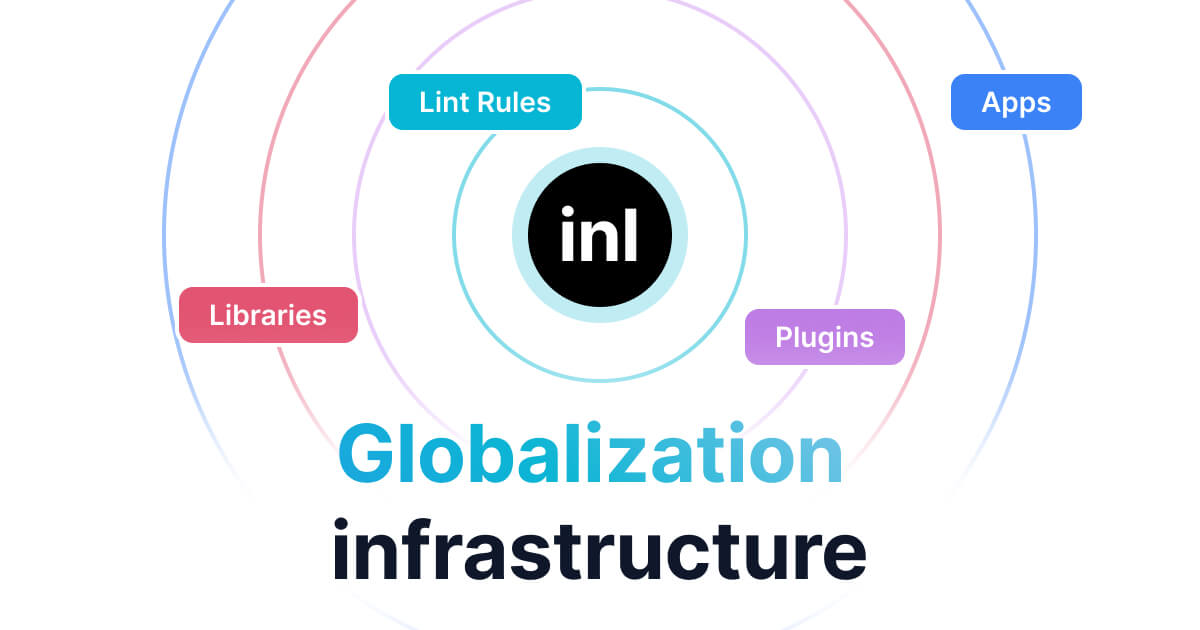
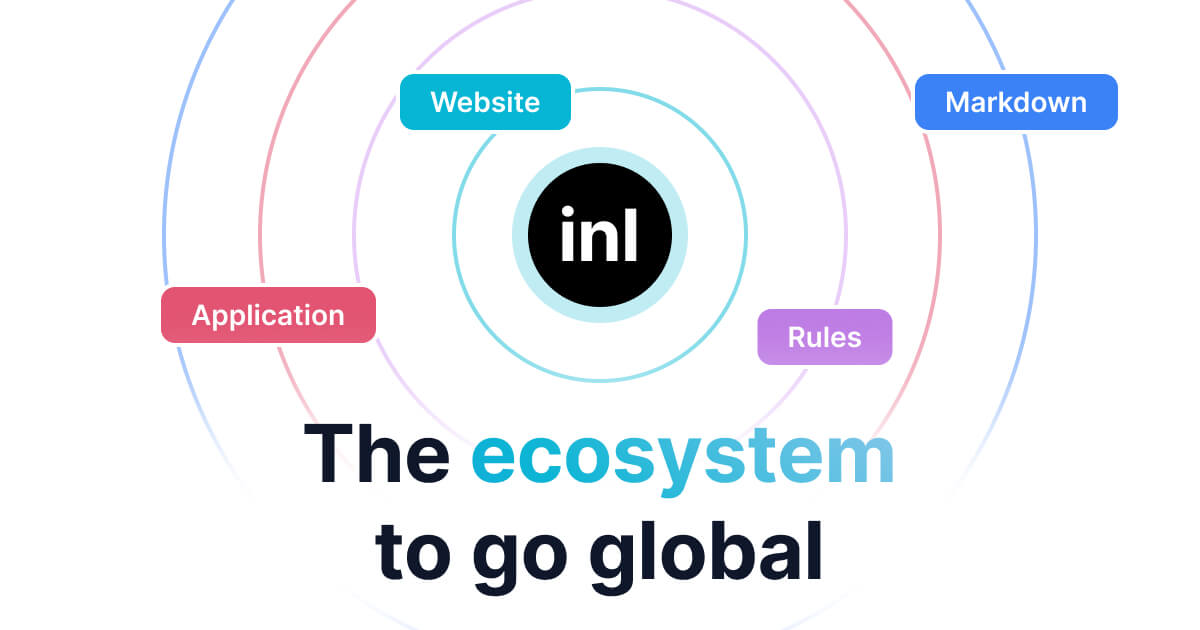
chore: SEO adjustments and paraglide to top

diff --git a/inlang/source-code/website/src/pages/index/index.page.tsx b/inlang/source-code/website/src/pages/index/index.page.tsx
@@ -12,12 +12,12 @@ export function Page() {
 
 	return (
 		<>
-			<Title>inlang Marketplace</Title>
+			<Title>inlang Marketplace - The ecosystem to go global</Title>
 			<Meta
 				name="description"
-				content="Find apps, plugins and lint rules for inlang's ecosystem."
+				content="Quickly find the best solution to globalize (i18n) your app. inlang helps you to expand to new markets and acquire new customers."
 			/>
-			<Meta name="og:image" content="/images/inlang-marketplace-image.jpg" />
+			<Meta name="og:image" content="/images/inlang-social-image.jpg" />
 			<MarketplaceLayout>
 				<Show
 					when={search}

diff --git a/inlang/source-code/website/src/pages/index/custom_section/Hero.tsx b/inlang/source-code/website/src/pages/index/custom_section/Hero.tsx
@@ -6,11 +6,11 @@ import { Button } from "../components/Button.jsx"
 import Link from "#src/renderer/Link.jsx"
 
 const featuredArray = [
+	"library.inlang.paraglideJs",
 	"app.inlang.editor",
 	"app.inlang.cli",
 	"app.inlang.ideExtension",
 	"plugin.inlang.i18next",
-	"library.inlang.paraglideJs",
 ]
 
 const Hero = () => {
